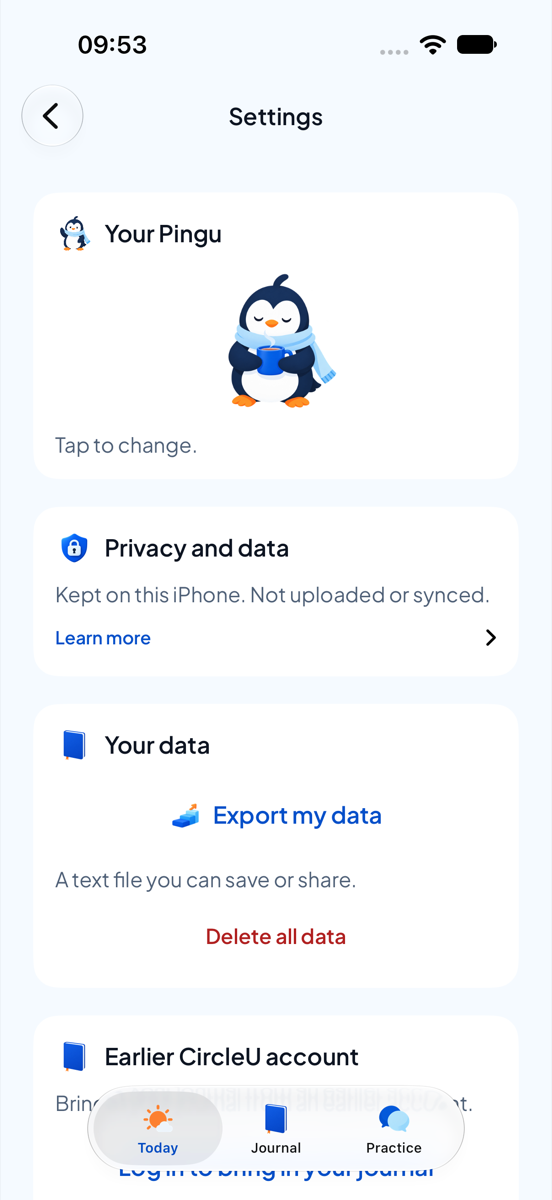
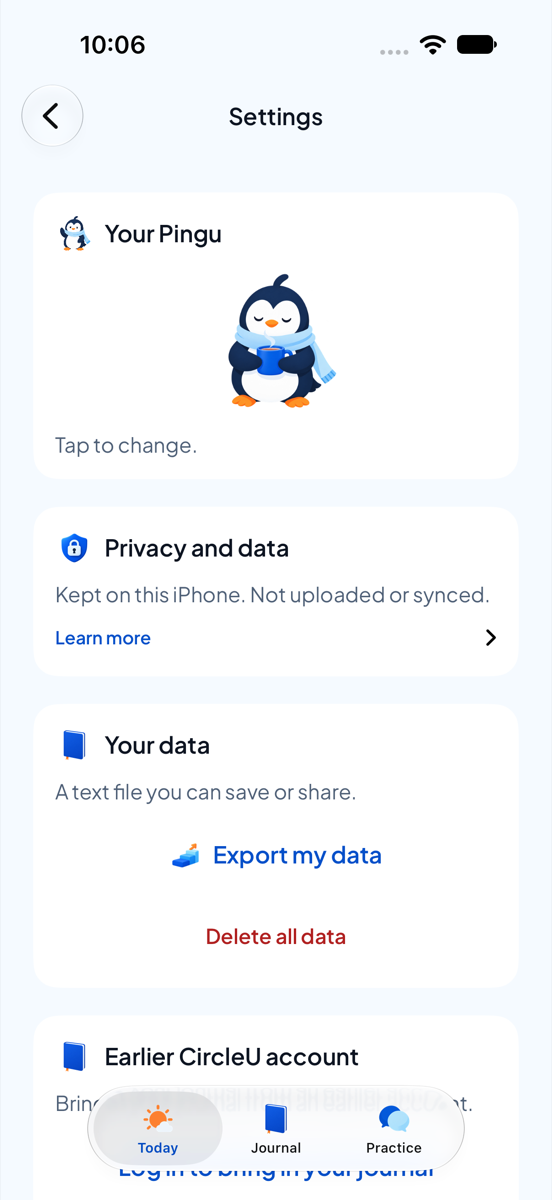
content(guest): keep consequences in short warnings; stronger copy lint
Codex review of a5bc15a: restore 'new writing isn't kept, save before
closing'; leftover-copy retry no longer promised; delete-all scope says
'this journal' and the earlier app isn't affected; account deletion
qualified; lint recursive and whole-word, skipping off-host; guideline
and screens reconciled. Log, review and refreshed screenshots.

Changed region(s): [[0.0924, 0.6475, 0.7083, 0.74], [0.1232, 0.0308, 0.2772, 0.0617]]

diff --git a/CircleuTests/GuestCopyLintTests.swift b/CircleuTests/GuestCopyLintTests.swift
@@ -6,19 +6,26 @@ import XCTest
 final class GuestCopyLintTests: XCTestCase {
     private let limit = 100
     private let detailLimit = 120
-    private let banned = ["ai analysis", "analyses you", "analyzes you", "diagnos", "demo", "sample", "lorem"]
+    /// Whole words or phrases, so "demonstrate" isn't flagged.
+    private let banned = [#"\bai analysis\b"#, #"\banaly[sz]es you\b"#, #"\bdiagnos(e|is|es)\b"#, #"\bdemo\b"#,
+                          #"\bsample\b"#, #"\blorem\b"#]
 
+    /// Every Swift file under the guest journal's feature and service folders, recursively. The test
+    /// reads the checkout it was built from (Simulator and CI hosts); it skips where that isn't
+    /// reachable, for example on a device.
     private var sources: [URL] {
         let repo = URL(fileURLWithPath: #filePath).deletingLastPathComponent().deletingLastPathComponent()
-        let folder = repo.appendingPathComponent("Circleu/Features/GuestJournal")
-        let files = (try? FileManager.default.contentsOfDirectory(at: folder, includingPropertiesForKeys: nil)) ?? []
-        return files.filter { $0.pathExtension == "swift" }
-            + [repo.appendingPathComponent("Circleu/Services/GuestJournal/GuestSuggestionEngine.swift")]
+        return ["Circleu/Features/GuestJournal", "Circleu/Services/GuestJournal"].flatMap { path -> [URL] in
+            let enumerator = FileManager.default.enumerator(at: repo.appendingPathComponent(path), includingPropertiesForKeys: nil)
+            return (enumerator?.allObjects as? [URL] ?? []).filter { $0.pathExtension == "swift" }
+        }
     }
 
     func testOnScreenTextFollowsTheGuidelines() throws {
         let files = sources
-        XCTAssertGreaterThan(files.count, 5, "guest journal sources found")
+        try XCTSkipIf(files.isEmpty, "source checkout not reachable from this test host")
+        XCTAssertGreaterThan(files.count, 8, "guest journal sources found")
+        let bannedPatterns = try banned.map { try NSRegularExpression(pattern: $0, options: .caseInsensitive) }
         let literal = try NSRegularExpression(pattern: #""((?:[^"\\]|\\.)*)""#)
         var problems: [String] = []
         for file in files {
@@ -32,13 +39,13 @@ final class GuestCopyLintTests: XCTestCase {
                 for match in literal.matches(in: line, range: NSRange(line.startIndex..., in: line)) {
                     guard let range = Range(match.range(at: 1), in: line) else { continue }
                     let text = String(line[range])
-                    guard text.contains(" ") else { continue } // Identifiers, keys and asset names.
-                    if text.count > maxLength {
-                        problems.append("\(file.lastPathComponent):\(index + 1) is \(text.count) characters (max \(maxLength))")
+                    for pattern in bannedPatterns
+                    where pattern.firstMatch(in: text, range: NSRange(text.startIndex..., in: text)) != nil {
+                        problems.append("\(file.lastPathComponent):\(index + 1) uses banned wording (\(pattern.pattern))")
                     }
-                    let lower = text.lowercased()
-                    for word in banned where lower.contains(word) {
-                        problems.append("\(file.lastPathComponent):\(index + 1) uses banned wording “\(word)”")
+                    // Length applies to sentences, not identifiers, keys or asset names.
+                    if text.contains(" "), text.count > maxLength {
+                        problems.append("\(file.lastPathComponent):\(index + 1) is \(text.count) characters (max \(maxLength))")
                     }
                 }
             }

diff --git a/Circleu/Features/GuestJournal/GuestFindAndControl.swift b/Circleu/Features/GuestJournal/GuestFindAndControl.swift
@@ -178,7 +178,7 @@ final class GuestSettingsViewModel: ObservableObject {
     static let exportFailedMessage = "Couldn’t prepare the export. Try again."
     static let deleteFailedMessage = "Couldn’t delete. Try again. Your journal and practice are unchanged."
     static let deletedMessage = "Everything in this journal was deleted from this iPhone."
-    static let deletedExportPendingMessage = "Everything was deleted. A leftover copy will be removed next time CircleU opens."
+    static let deletedExportPendingMessage = "Everything was deleted. A leftover copy is still here; CircleU will try again to remove it."
     static let exportedMessage = "Export done. The copy you shared is yours to keep or delete."
     static let exportCleanupMessage = "The temporary export copy couldn’t be removed. CircleU will try again next time it opens."
 
@@ -293,13 +293,14 @@ struct GuestSettingsView: View {
                 section("Privacy and data", icon: "GuestIconPrivacy") {
                     GuestSummary("Kept on this iPhone. Not uploaded or synced.")
                     GuestLearnMore {
-                        Text("Suggestions are made on this iPhone. Dictation saves no audio.")
+                        Text("Suggestions and dictation stay on this iPhone; no audio is saved.")
                         Text("Your iPhone’s own backups (iCloud or a computer) may include your journal.")
                         Text("Restoring an older backup can bring back things you deleted.")
                         Text("Exports you saved elsewhere aren’t deleted here.")
                     }
                 }
                 section("Your data", icon: "GuestIconJournal") {
+                    GuestSummary("A text file you can save or share.")
                     Button {
                         Task { exportURL = await settings.makeExportFile() }
                     } label: {
@@ -307,7 +308,6 @@ struct GuestSettingsView: View {
                     }
                     .buttonStyle(GuestBrandButtonStyle(filled: false))
                     .disabled(settings.isWorking)
-                    GuestSummary("A text file you can save or share.")
                     Button(role: .destructive) { confirmDelete = true } label: {
                         Text("Delete all data").frame(maxWidth: .infinity, minHeight: 44).contentShape(Rectangle())
                     }
@@ -351,7 +351,7 @@ struct GuestSettingsView: View {
             Button("Cancel", role: .cancel) {}
             Button("Delete all", role: .destructive) { Task { await settings.deleteAll() } }
         } message: {
-            Text("Deletes all entries, practice and drafts on this iPhone. This can’t be undone.")
+            Text("Deletes everything in this journal, including drafts. The earlier CircleU app isn’t affected.")
         }
         .sheet(item: Binding(get: { exportURL.map(ExportFile.init) }, set: { if $0 == nil { exportURL = nil } })) { file in
             GuestShareSheet(url: file.url) { completed in

diff --git a/Circleu/Features/GuestJournal/GuestJournalViewModel.swift b/Circleu/Features/GuestJournal/GuestJournalViewModel.swift
@@ -35,7 +35,7 @@ final class GuestJournalViewModel: ObservableObject {
     static let saveFailedMessage = "Couldn’t save. Try again."
     static let loadFailedMessage = "Couldn’t open your journal. Try again."
     static let savedButUnprotectedMessage = "Saved, but this phone couldn’t fully secure it."
-    static let draftUnreadableMessage = "An earlier draft couldn’t be opened and was left as it was. New writing isn’t kept yet."
+    static let draftUnreadableMessage = "An earlier draft couldn’t be opened. New writing isn’t kept, so save before closing."
     static let draftNotKeptMessage = "Your draft couldn’t be kept on this phone. Save it before you close the app."
     static let draftUnprotectedMessage = "Your draft is kept, but this phone couldn’t fully secure it."
     static let draftNotClearedMessage = "Saved. The draft copy couldn’t be removed, but it won’t be saved twice."

diff --git a/Circleu/Features/GuestJournal/GuestPracticeViewModels.swift b/Circleu/Features/GuestJournal/GuestPracticeViewModels.swift
@@ -54,7 +54,7 @@ final class GuestPracticeViewModel: ObservableObject {
     static let draftNotKeptMessage = "Your practice draft couldn’t be kept on this phone. Save it before you close the app."
     static let otherDraftMessage = "Another practice draft is kept. Save this one, or go back to choose."
     static let draftUnprotectedMessage = "Your practice draft is kept, but this phone couldn’t fully secure it."
-    static let draftUnreadableMessage = "An earlier practice draft couldn’t be opened and was left as it was."
+    static let draftUnreadableMessage = "An earlier practice draft couldn’t be opened. New writing here isn’t kept, so save before closing."
 
     init(store: any GuestPracticeStore, suggester: (any GuestSuggesting)? = nil, drafts: (any GuestDraftStore)? = nil) {
         self.store = store

diff --git a/Circleu/Features/GuestJournal/GuestImportAndWelcome.swift b/Circleu/Features/GuestJournal/GuestImportAndWelcome.swift
@@ -207,8 +207,8 @@ struct GuestWelcomeView: View {
                     GuestPinguDecoration(asset: "GuestPinguWelcome", height: 200)
                     Text("CircleU").font(GuestBrand.font(.largeTitle, .bold)).foregroundStyle(GuestBrand.ink)
                         .accessibilityAddTraits(.isHeader)
-                    Text("A private place to work through a moment and find your words.")
-                        .multilineTextAlignment(.center).foregroundStyle(GuestBrand.muted)
+                    GuestSummary("A private place to work through a moment and find your words.")
+                        .multilineTextAlignment(.center)
                     Button("Get started", action: onDone)
                         .buttonStyle(GuestBrandButtonStyle())
                         .padding(.top, 8)

diff --git a/Circleu/Features/GuestJournal/GuestSignIn.swift b/Circleu/Features/GuestJournal/GuestSignIn.swift
@@ -490,7 +490,7 @@ struct GuestDeleteAccountView: View {
                         GuestSummary("\(kept) \(kept == 1 ? "circle" : "circles") kept for other people’s posts.")
                     }
                 } else {
-                    GuestSummary("Deletes your earlier account and its cloud data. Entries on this iPhone stay.")
+                    GuestSummary("Deletes your earlier account, backup, posts and memberships. Entries here stay.")
                     GuestLearnMore {
                         Text("Your backup, posts and circle memberships are deleted.")
                         // copy: detail

diff --git a/docs/design/screen-content-guidelines.md b/docs/design/screen-content-guidelines.md
@@ -8,7 +8,7 @@
 | --- | --- |
 | Heading | One per screen, **≤ 40 characters**, sentence case, no full stop. The navigation title may be the heading. |
 | Supporting line | **At most one**, **≤ 90 characters**, in the secondary style (`GuestSummary`: subheadline, muted, Dynamic Type). |
-| Primary action | **Exactly one** filled button per screen. |
+| Primary action | **At most one** filled button per screen (screens that are lists or settings may have none). A destructive primary, such as Delete my account, is a red text button rather than a filled one. |
 | Secondary actions | **At most two** plain or outlined buttons or links. Back, toolbar items and "Learn more" don't count. |
 | Detail | Only where honesty needs it, behind **Learn more** (`GuestLearnMore`, collapsed, footnote, Dynamic Type). At most four short sentences, each **≤ 120 characters**, marked `// copy: detail` when over 100. |
 | Errors and warnings | One sentence saying what happened, plus the next step if there is one, **≤ 100 characters**. Never reveal whether an account exists. Never show success before it happened. |
@@ -46,7 +46,7 @@ The supporting line is the single line under the heading; "—" means none.
 | Practice message | What would you like to say? | Tag (From: … / On its own) | Save, or Copy when saved | Copy, or Edit when saved | — ("Copying won’t save or send it." stays: approved) |
 | Settings → Your Pingu | Your Pingu | Tap to change. | — | — | — |
 | Settings → Privacy and data | Privacy and data | Kept on this iPhone. Not uploaded or synced. | — | — | Backups, restore, exports, dictation |
-| Settings → Your data | Your data | A text file you can save or share. | — | Export my data; Delete all data | — |
+| Settings → Your data | Your data | A text file you can save or share. (above Export) | — | Export my data; Delete all data | — |
 | Settings → Earlier CircleU account | Earlier CircleU account | Bring in your journal from an earlier account. | — | Log in to bring in your journal; Delete my account | — |
 | Log in | Bring in your earlier journal | Nothing new is uploaded, and you’re signed out after. | Log in | Forgot password?; Continue without logging in (Welcome only) | What logging in does; no new accounts; why on-phone data stays sealed |
 | Backup preview | Your account’s backup | N to copy · N already copied | Copy into this journal | Don’t copy | Not changed; what isn’t copied; what was left out |
@@ -56,5 +56,6 @@ The supporting line is the single line under the heading; "—" means none.
 
 ## Enforcement
 
-- **Test:** `CircleuTests/GuestCopyLintTests.swift` reads the guest journal's source files. It fails on any user-facing literal over 100 characters (or over 120 when marked `// copy: detail`), and on banned wording. Run it with the full suite before every merge.
+- **Test:** `CircleuTests/GuestCopyLintTests.swift` reads every Swift file under the guest journal's feature and service folders, recursively. It fails on banned wording (whole words) and on any multi-word string literal over 100 characters (120 when marked `// copy: detail`). It runs on the Simulator or CI host from the checkout, and skips where the sources aren't reachable, such as on a device.
+- **Not checked automatically:** heading (≤ 40) and supporting-line (≤ 90) limits, the number of actions, and the displayed length of interpolated or combined messages. These are checked in review against the table above. Messages shown together (for example a failure plus "Signing out didn't finish") must each fit on their own.
 - **Review:** before accepting copy, read the screen at normal and larger text sizes: one purpose, one primary action, nothing duplicated, no placeholder repeating a label.

diff --git a/docs/agent-collaboration-log/2026-10-26-061000-codex-review-guest-content-trim.md b/docs/agent-collaboration-log/2026-10-26-061000-codex-review-guest-content-trim.md
@@ -1,0 +1,21 @@
+**2026-10-26 — Codex review — HEAD `a5bc15a`**
+
+**Verdict: changes required.** Review only; no files edited or inter-agent exchanges.
+
+- **BLOCKER — unsaved-work warning lost.** [GuestPracticeViewModels.swift:57](<../../Circleu/Features/GuestJournal/GuestPracticeViewModels.swift:57>): unreadable drafts disable persistence (`canKeepDraft = false`), but the shortened warning no longer says new writing will be lost when closing. Restore that consequence and the instruction to save.
+
+- **BLOCKER — deletion retry presented as guaranteed success.** [GuestFindAndControl.swift:181](<../../Circleu/Features/GuestJournal/GuestFindAndControl.swift:181>): “will be removed next time” is unsupported; cleanup can fail again. State that a copy remains and removal will be retried.
+
+- **SHOULD-FIX — deletion scope is less honest.** [GuestFindAndControl.swift:354](<../../Circleu/Features/GuestJournal/GuestFindAndControl.swift:354>) removes the explicit exclusion of earlier-app data while claiming “all entries … on this iPhone.” Restore “this journal” and the legacy-data exclusion. [GuestSignIn.swift:493](<../../Circleu/Features/GuestJournal/GuestSignIn.swift:493>) similarly promises deletion of “its cloud data” while surviving replies/likes are now disclosed only after expansion. Qualify the visible promise.
+
+- **SHOULD-FIX — lint has substantial blind spots.** [GuestCopyLintTests.swift:22](<../../CircleuTests/GuestCopyLintTests.swift:22>): line-based regex misses multiline contents; the space filter skips `Text("Demo")`; concatenation/interpolation does not measure displayed length. Existing combined sign-out errors can exceed 100 characters unnoticed. Heading/supporting limits of 40/90 are never checked. Substring matching can also flag innocent wording such as “demonstrate.” Use syntax-aware extraction plus focused rendered-message checks.
+
+- **SHOULD-FIX — source coverage and location are fragile.** [GuestCopyLintTests.swift:12](<../../CircleuTests/GuestCopyLintTests.swift:12>): scanning covers current top-level feature files and one service, excluding other guest services and future subdirectories. `#filePath` requires the build machine’s checkout at runtime, so device or relocated test runs cannot reliably execute it. Prefer a host-side lint with explicit, recursive coverage.
+
+- **SHOULD-FIX — rules and screens disagree.** [screen-content-guidelines.md:11](<../../docs/design/screen-content-guidelines.md:11>) requires exactly one filled action, but its table permits none. The listed Delete-account primary is actually plain ([GuestSignIn.swift:509](<../../Circleu/Features/GuestJournal/GuestSignIn.swift:509>)). Privacy detail contains five sentences, exceeding four; Welcome does not use the required supporting style; Settings places its export action before its summary. Document exceptions and reconcile implementation before calling the guideline enforced.
+
+**Retained:** not-uploaded wording and sign-out failure remain visible; sealed-data reasoning, backup resurrection and external-export caveats remain accessible behind disclosure. `GuestLearnMore` uses native `DisclosureGroup` and scalable fonts; source inspection establishes no definite accessibility defect.
+
+**Checked:** HEAD diff, surrounding failure paths, standards/handoffs, three committed after-screenshots, whitespace check, and a Python reproduction demonstrating lint misses.
+
+**Not checked:** build/XCTest, live VoiceOver expansion/focus, touch targets, larger Dynamic Type, Simulator/device interactions, live Firebase or actual deletion/network behavior.

diff --git a/docs/agent-collaboration-log/2026-10-26-062000-claude-guest-content-trim.md b/docs/agent-collaboration-log/2026-10-26-062000-claude-guest-content-trim.md
@@ -1,0 +1,51 @@
+# Content batch: one enforced guideline, shorter account and privacy screens
+
+- Recorded: 2026-10-26 06:20:00 +11:00; Australia/Sydney
+- Agent / role: Claude Code (implementer), on Mike's Mac
+- Status: completed; merged under the auto-merge rule; phone check pending
+- Base revision and branch: `codex/guest-content-trim` from `main` at `1e5cc04`
+- Related record / task / PR: Mike's feedback, relayed by the coordinator; [guideline](../design/screen-content-guidelines.md); [before and after](../qa/screenshots/content-trim-2026-10-26)
+
+## Request and scope
+
+Mike's feedback:
+- The Log in, preview, reset and delete screens have too much text.
+- Privacy and data should show a one-line summary per section, with the detail collapsed.
+- One content guideline should be the single enforced source, referenced in AGENTS.md, with a lint if practical.
+- All guest screens should be audited.
+
+## Work and outcome
+
+- **Guideline:** [screen-content-guidelines.md](../design/screen-content-guidelines.md) replaces `content.md`, which is now a pointer, and keeps its voice, terms and truthful-state rules.
+  - Limits: heading ≤ 40 characters; one supporting line ≤ 90; at most one filled primary action; ≤ 2 secondary actions; detail behind Learn more; errors ≤ 100.
+  - Banned wording and the privacy summary pattern.
+  - A table covering every guest screen.
+  - AGENTS.md requires it for every agent.
+- **Lint:** `GuestCopyLintTests` reads every guest feature and service file recursively. It enforces string length and banned wording (whole words). What it can't check is listed in the guideline.
+- **Screens:**
+  - Log in, backup preview, copied, reset, Delete my account, Welcome and Settings now have one heading and one short `GuestSummary` line.
+  - Honesty details (sealed on-phone data, what isn't copied, deletion scope, backups and restores) moved behind `GuestLearnMore`.
+  - Long warnings shortened, keeping their consequences.
+
+## Verification
+
+- **Full local suite:** 244 passed, 0 failed, 1 skipped. The lint test runs and passes.
+- **Out-of-repo XCUITests:** ten passed on a clean install.
+- **Not run:** VoiceOver on a device; CI (manual by owner decision).
+
+## Discussion and decisions
+
+**Codex** ([log](2026-10-26-061000-codex-review-guest-content-trim.md)):
+- Two blockers, where my trimming lost honesty: the unreadable Practice draft warning dropped "new writing isn't kept", and a retry was presented as certain. Both fixed.
+- Should-fixes:
+  - delete-all scope restored ("this journal"; the earlier app isn't affected);
+  - account deletion qualified;
+  - lint made recursive and whole-word, skipping off-host;
+  - guideline and screens reconciled (destructive primary, privacy detail ≤ 4 sentences, Welcome summary style, Your data order).
+- Merged without another round, since the fixes were small.
+
+## Handoff
+
+- Remaining work: Mike's phone check.
+- Owner: Mike
+- Risks / unresolved questions: the heading and supporting-line limits are checked in review, not by the lint.
